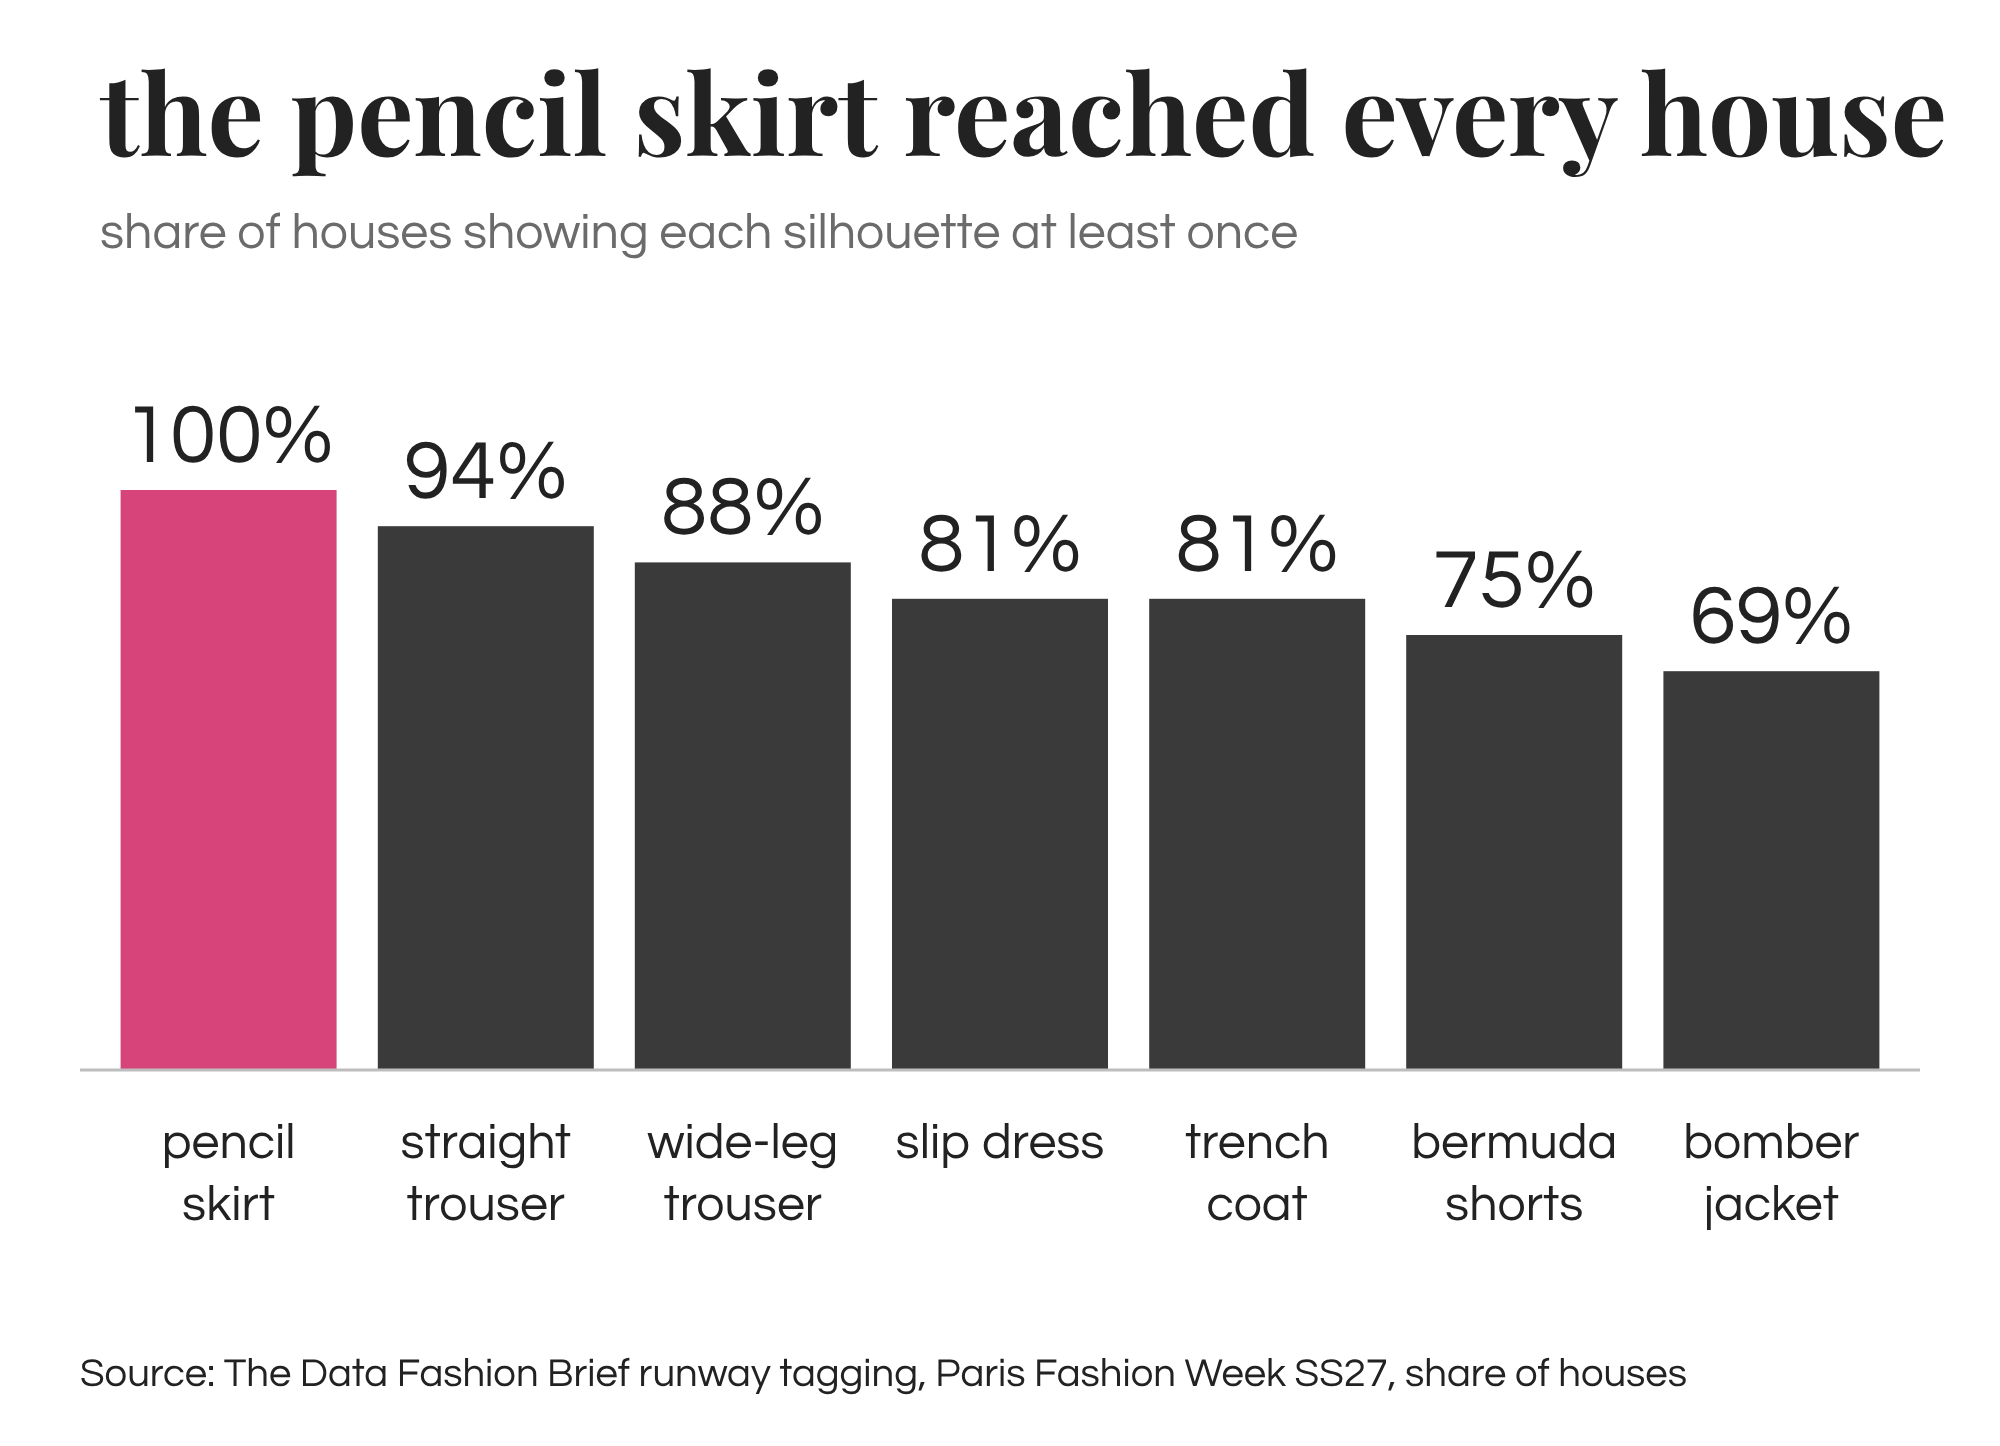
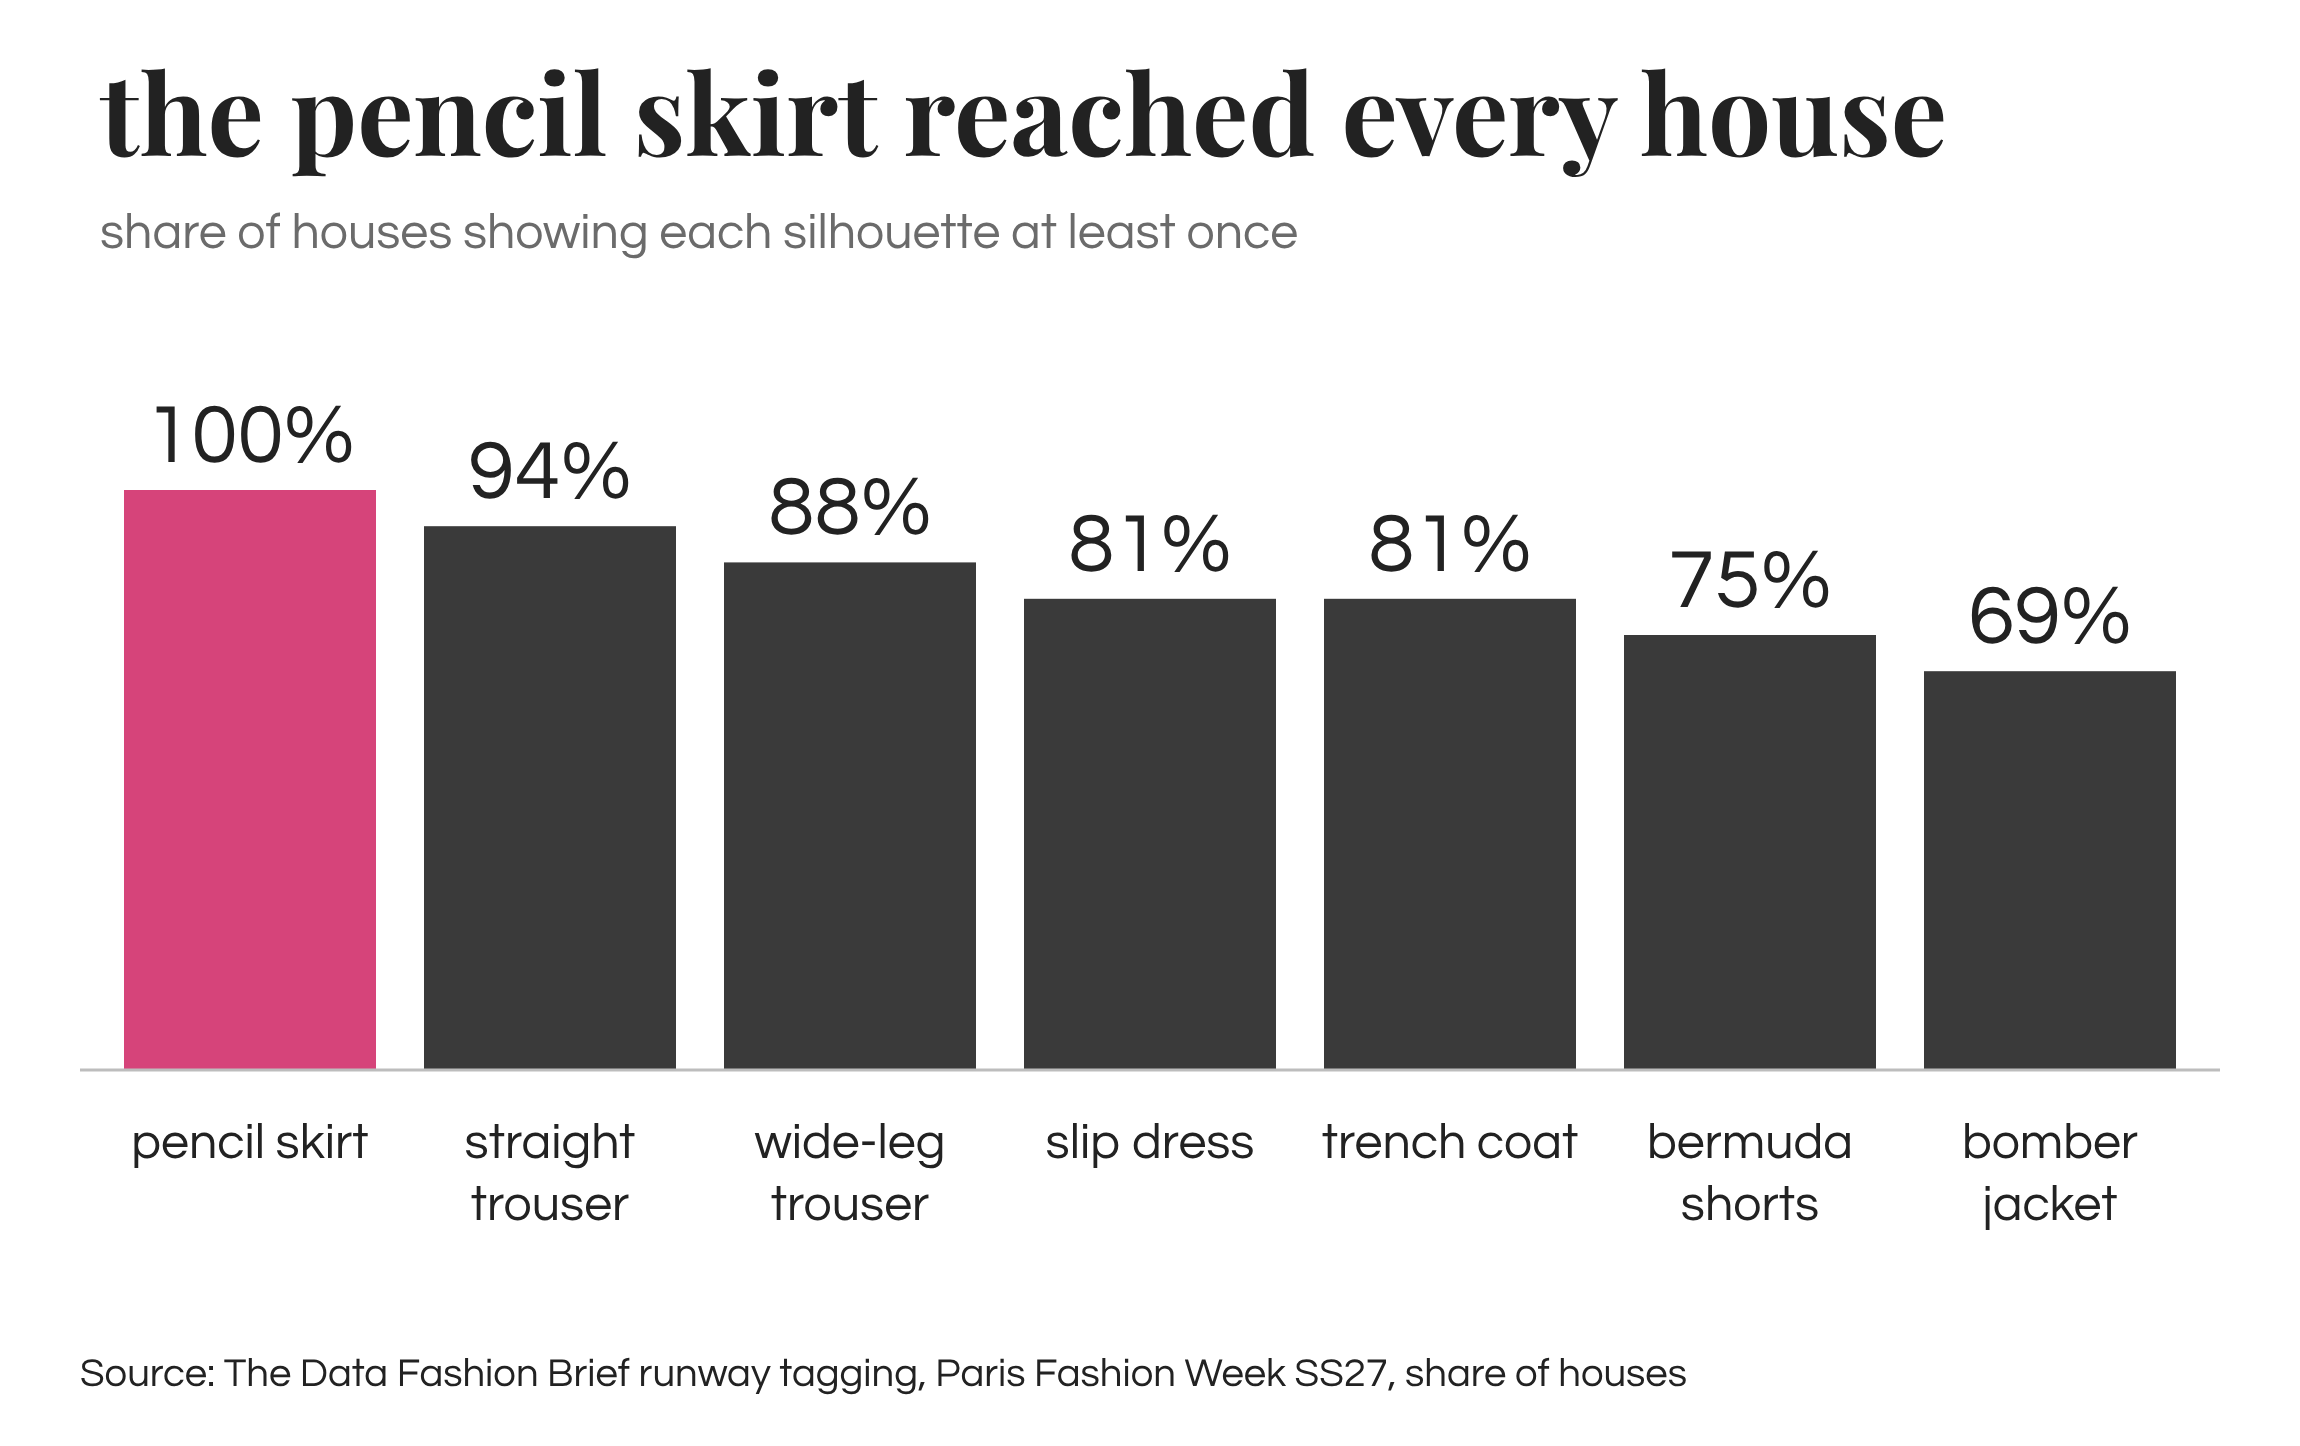
Paris SS27 charts: widen 8-bar charts so house labels don't touch
Claude-Session: https://claude.ai/code/session_017XtVnXiWHeBZX9E24h61HG

diff --git a/drafts/paris-ss27-charts/render_png.js b/drafts/paris-ss27-charts/render_png.js
@@ -4,7 +4,7 @@ const fs = require('fs');
   const dir = process.argv[2], dest = process.argv[3];
   const m = JSON.parse(fs.readFileSync(dir + '/manifest.json'));
   const b = await chromium.launch();
-  const pg = await b.newPage({ viewport: { width: 1000, height: 900 }, deviceScaleFactor: 2 });
+  const pg = await b.newPage({ viewport: { width: 1400, height: 900 }, deviceScaleFactor: 2 });
   for (const c of m) {
     await pg.goto('file://' + dir + '/' + c.name + '.html');
     await pg.evaluate(() => document.fonts.ready);

diff --git a/drafts/paris-ss27-charts/build_charts.py b/drafts/paris-ss27-charts/build_charts.py
@@ -38,6 +38,7 @@ def wrap(label, n=14):
 def bar_chart(name, title, subtitle, items, source, fmt=lambda v: f'{round(v)}%', highlight=0):
     """items: list of (label, value). One bar in pink (index `highlight`), rest dark."""
     n = len(items)
+    W = max(1000, 100 + n * 150)  # wider canvas for many bars so labels never touch
     top, plot_h, left, right = 175, 360, 50, 50
     base = top + plot_h
     slot = min((W - left - right) / n, 165)
